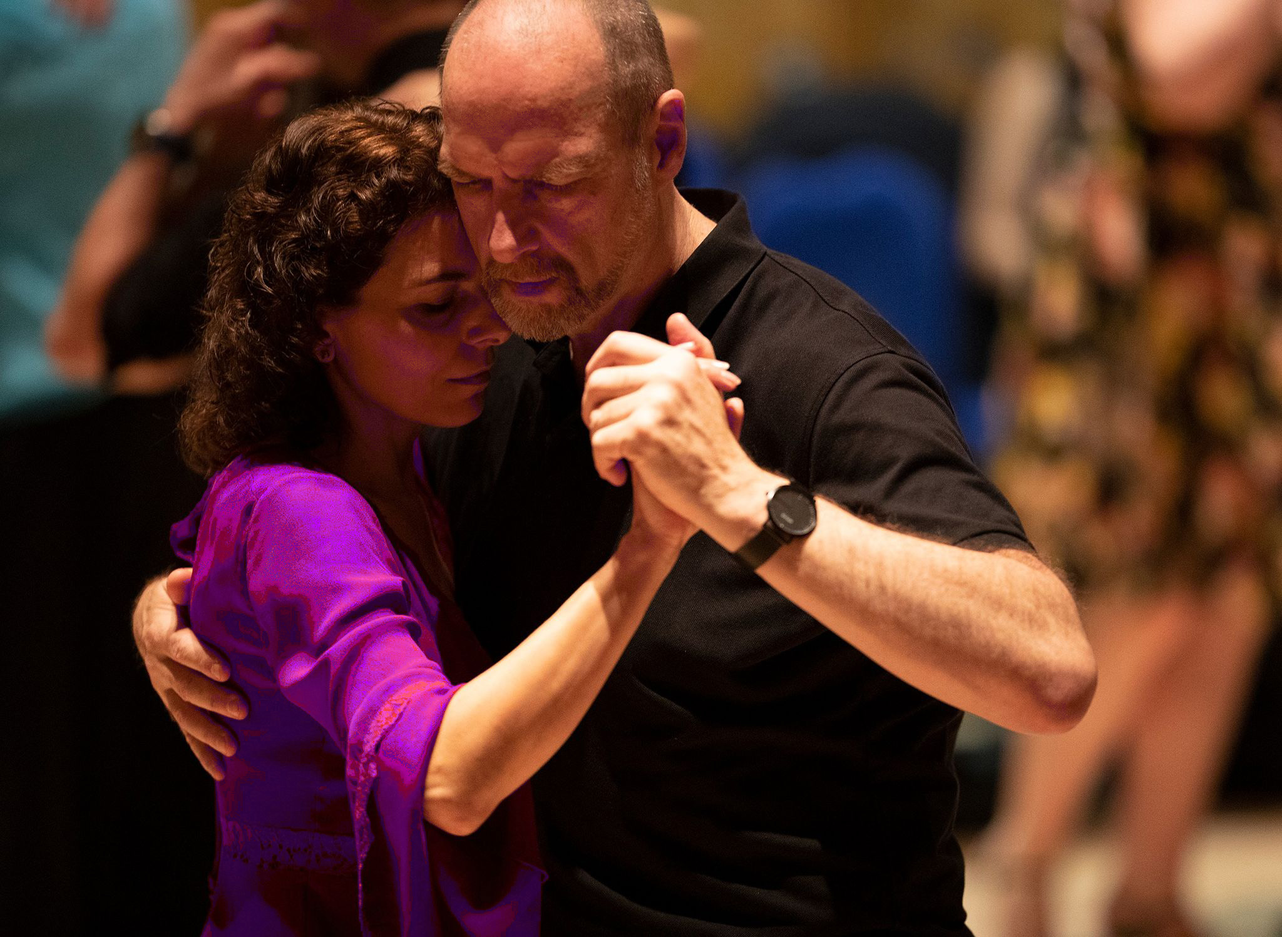
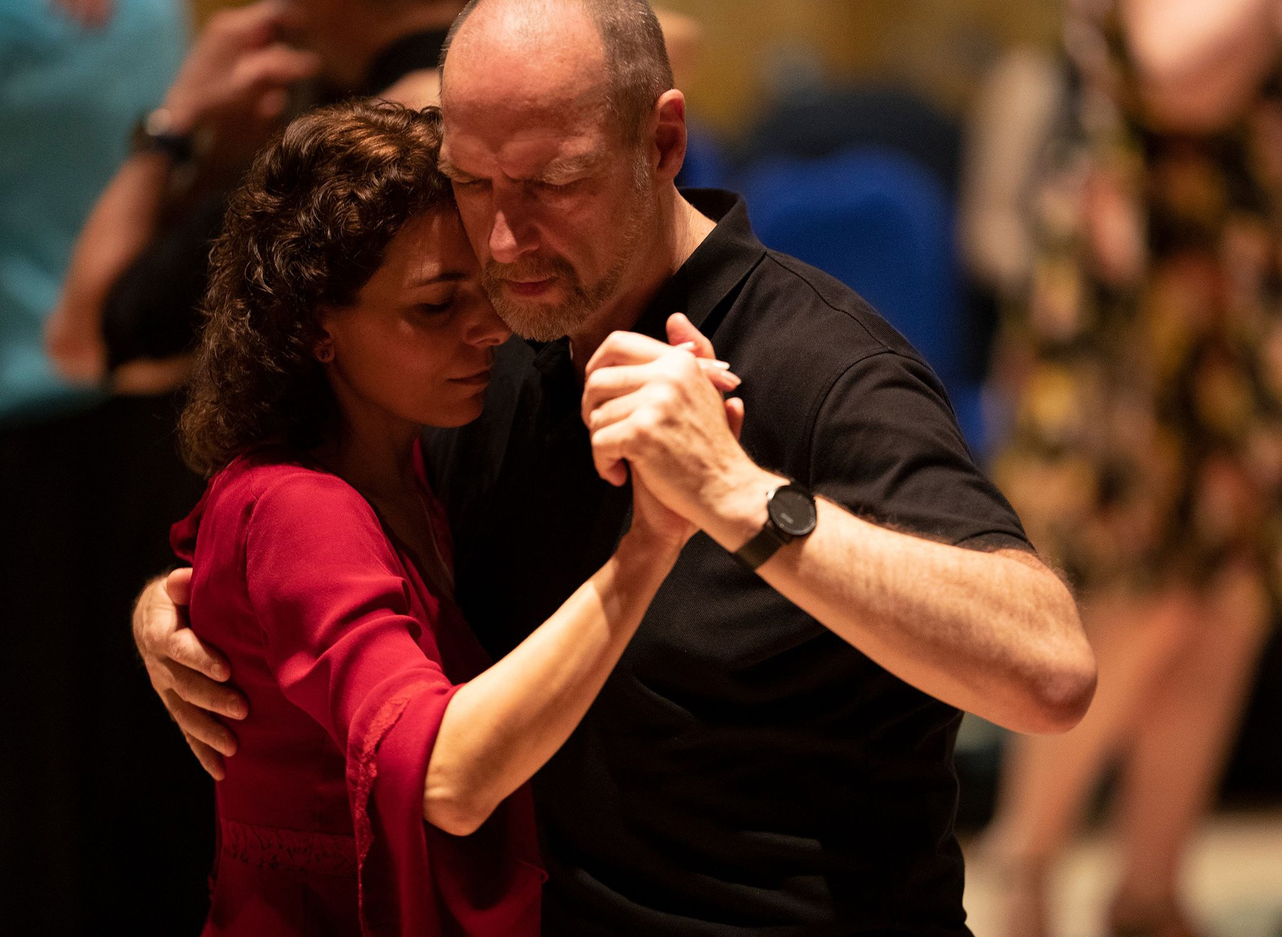
red theme

diff --git a/src/styles/theme.css b/src/styles/theme.css
@@ -1,5 +1,5 @@
 [data-theme="light"] {
-  --color-primary: theme("colors.pink.500");
+  --color-primary: theme("colors.rose.400");
   --color-secondary: theme("colors.indigo.500");
   --color-text: theme("colors.gray.900");
   --color-text-offset: theme("colors.gray.600");
@@ -9,7 +9,7 @@
 }
 
 [data-theme="dark"] {
-  --color-primary: theme("colors.pink.400");
+  --color-primary: theme("colors.rose.300");
   --color-secondary: theme("colors.indigo.400");
   --color-text: theme("colors.gray.50");
   --color-text-offset: theme("colors.gray.400");

diff --git a/src/styles/global.css b/src/styles/global.css
@@ -8,5 +8,5 @@ a,
 
 .gradient-text {
   @apply bg-clip-text text-transparent;
-  @apply bg-gradient-to-br from-teal-300 via-fuchsia-800 to-red-500;
+  @apply bg-gradient-to-br from-pink-100 via-rose-500 to-rose-700;
 }
